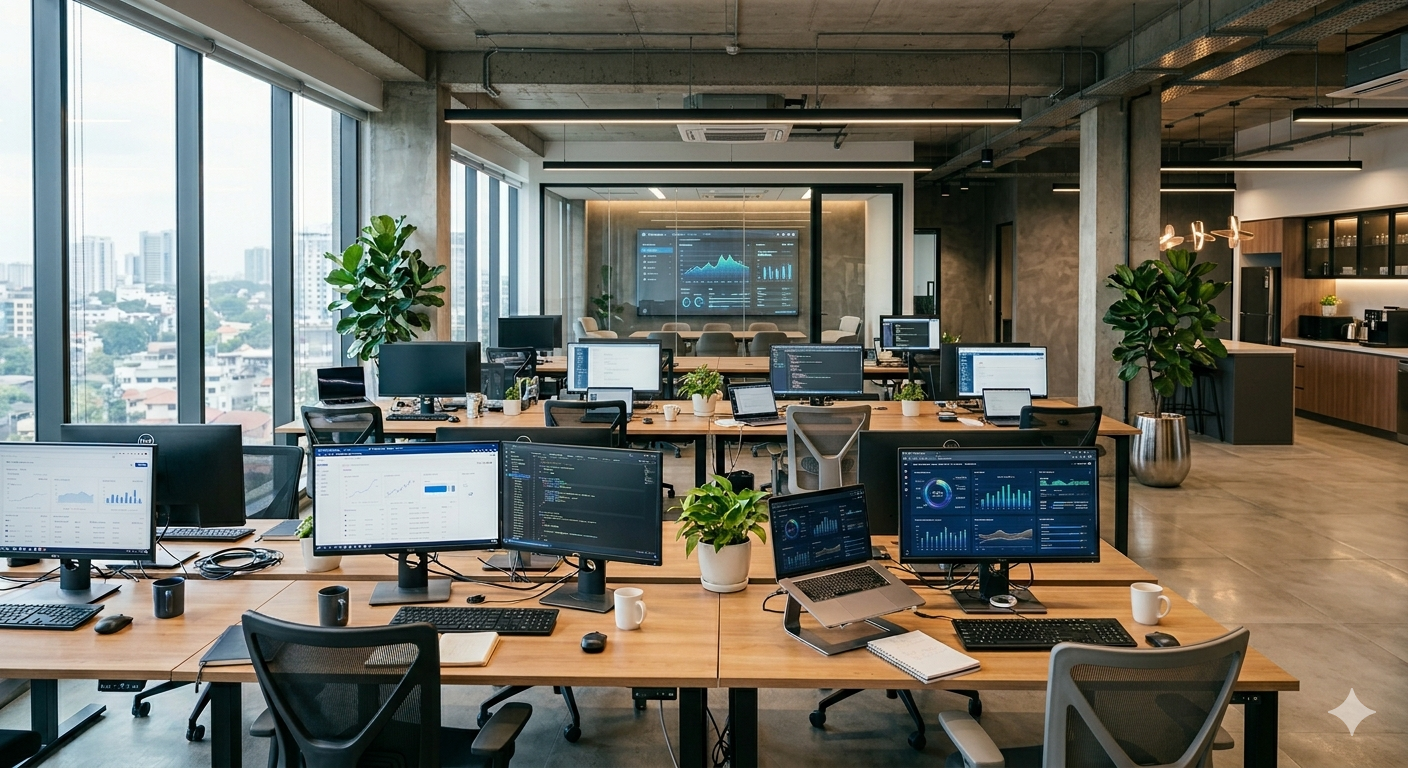
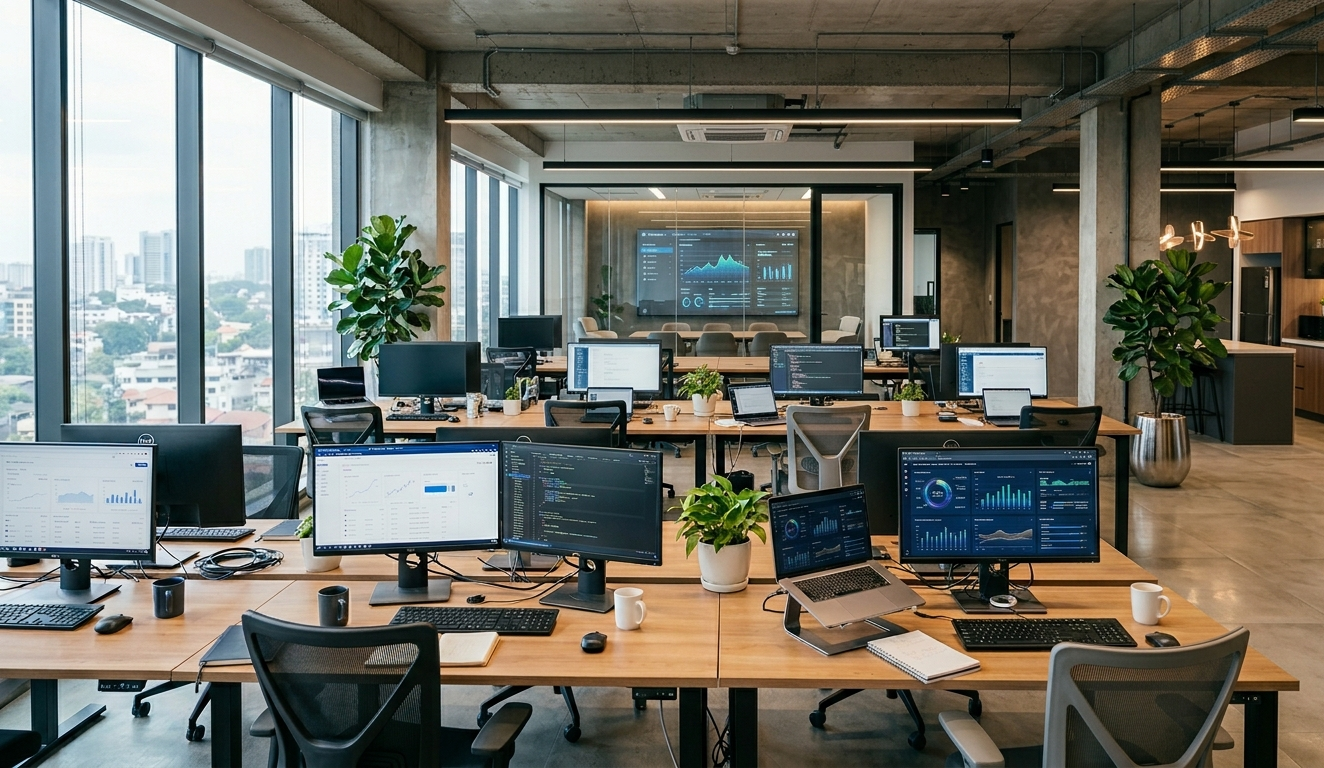
latest updates

diff --git a/src/components/PageCta.jsx b/src/components/PageCta.jsx
@@ -1,3 +1,4 @@
+import { Link } from 'react-router-dom'
 import { contact, ctaSection } from '../data/content'
 
 export default function PageCta() {
@@ -5,17 +6,17 @@ export default function PageCta() {
     <section className="relative py-16 lg:py-20 overflow-hidden cta-pattern">
       <div className="section-container relative z-10 text-center">
         <p className="text-brand font-bold text-lg sm:text-xl mb-3">{ctaSection.brand}</p>
-        <h2 className="text-2xl sm:text-3xl lg:text-4xl font-extrabold text-white leading-tight text-balance max-w-3xl mx-auto mb-8">
+        <h2 className="section-title text-white leading-tight text-balance max-w-3xl mx-auto mb-8">
           {ctaSection.title}
         </h2>
 
         <div className="flex flex-col sm:flex-row items-center justify-center gap-4">
-          <a
-            href="/contact"
+          <Link
+            to="/contact"
             className="w-full sm:w-auto min-w-[220px] inline-flex items-center justify-center rounded-md bg-white px-8 py-4 text-sm font-bold uppercase tracking-wide text-brand-deep shadow-lg hover:bg-brand-light transition-colors"
           >
             {ctaSection.proposalButton}
-          </a>
+          </Link>
           <a
             href={contact.phoneTel}
             className="w-full sm:w-auto min-w-[220px] inline-flex items-center justify-center rounded-md bg-white px-8 py-4 text-sm font-bold uppercase tracking-wide text-brand-deep shadow-lg hover:bg-brand-light transition-colors"

diff --git a/src/components/WhyWorkWithUs.jsx b/src/components/WhyWorkWithUs.jsx
@@ -1,3 +1,4 @@
+import { Link } from 'react-router-dom'
 import { whyWork } from '../data/content'
 import PrinciplesCircle from './PrinciplesCircle'
 import PrinciplesMobile from './PrinciplesMobile'
@@ -8,7 +9,7 @@ export default function WhyWorkWithUs() {
       <div className="section-container">
         <div className="grid lg:grid-cols-2 gap-10 lg:gap-16 items-center">
           <div className="min-w-0">
-            <h2 className="text-3xl sm:text-4xl lg:text-5xl font-extrabold text-brand-dark tracking-tight mb-3">
+            <h2 className="section-title text-brand-dark mb-3">
               {whyWork.title}
             </h2>
             <p className="text-xl sm:text-2xl lg:text-3xl font-bold text-slate-800 mb-6 lg:mb-8">
@@ -25,12 +26,12 @@ export default function WhyWorkWithUs() {
                 <p key={paragraph.slice(0, 40)}>{paragraph}</p>
               ))}
             </div>
-            <a
-              href="#contact"
+            <Link
+              to="/contact"
               className="inline-flex w-full sm:w-auto items-center justify-center rounded-md bg-brand px-8 py-3.5 text-base font-bold text-brand-black shadow-lg shadow-brand/25 hover:bg-brand-light transition-all hover:-translate-y-0.5"
             >
               {whyWork.cta}
-            </a>
+            </Link>
           </div>
 
           <div className="hidden lg:flex min-w-0 w-full justify-center">

diff --git a/src/components/Footer.jsx b/src/components/Footer.jsx
@@ -1,3 +1,4 @@
+import { Link } from 'react-router-dom'
 import { contact, footer } from '../data/content'
 
 function scrollToTop() {
@@ -19,12 +20,12 @@ export default function Footer() {
             <ul className="space-y-3">
               {footer.services.map((item) => (
                 <li key={item.label}>
-                  <a
-                    href={item.href}
+                  <Link
+                    to={item.href}
                     className="text-sm hover:text-brand-dark transition-colors"
                   >
                     {item.label}
-                  </a>
+                  </Link>
                 </li>
               ))}
             </ul>
@@ -54,13 +55,13 @@ export default function Footer() {
           <p>© {footer.copyright}</p>
           <div className="flex flex-wrap justify-center gap-x-6 gap-y-2">
             {footer.bottomLinks.map((link) => (
-              <a
+              <Link
                 key={link.label}
-                href={link.href}
+                to={link.href}
                 className="hover:text-brand-dark transition-colors"
               >
                 {link.label}
-              </a>
+              </Link>
             ))}
           </div>
         </div>

diff --git a/src/components/Services.jsx b/src/components/Services.jsx
@@ -1,3 +1,4 @@
+import { Link } from 'react-router-dom'
 import { services } from '../data/content'
 import { Icon } from './Icons'
 
@@ -23,18 +24,18 @@ export default function Services() {
                 </div>
               </div>
 
-              <div className="flex flex-1 flex-col p-6">
+              <div className="flex flex-1 flex-col p-4">
                 <p className="text-sm leading-relaxed text-slate-600 flex-1 text-justify">
                   {service.description}
                 </p>
 
-                <a
-                  href={service.href}
-                  className="mt-6 flex w-full items-center justify-center gap-2 rounded-xl bg-brand px-6 py-3 text-sm font-semibold text-brand-black hover:bg-brand-light transition-colors"
+                <Link
+                  to={service.href}
+                  className="mt-4 flex w-full items-center justify-center gap-2 rounded-xl bg-brand px-6 py-3 text-sm font-semibold text-brand-black hover:bg-brand-light transition-colors"
                 >
                   Learn more
                   <Icon name="arrow" className="w-4 h-4" />
-                </a>
+                </Link>
               </div>
             </article>
           ))}

diff --git a/src/pages/WhoWeAre.jsx b/src/pages/WhoWeAre.jsx
@@ -1,3 +1,4 @@
+import { Link } from 'react-router-dom'
 import { whoWeArePage, whyWork } from '../data/content'
 import { IconBadge } from '../components/Icons'
 import PageHero from '../components/PageHero'
@@ -37,12 +38,12 @@ export default function WhoWeAre() {
                   {paragraph}
                 </p>
               ))}
-              <a
-                href={intro.ctaHref}
+              <Link
+                to={intro.ctaHref}
                 className="inline-flex items-center justify-center rounded-md bg-brand px-8 py-3.5 text-sm font-bold uppercase tracking-wide text-brand-black shadow-lg shadow-brand/25 hover:bg-brand-light transition-all hover:-translate-y-0.5"
               >
                 {intro.cta}
-              </a>
+              </Link>
             </div>
           </div>
         </div>

diff --git a/src/components/Hero.jsx b/src/components/Hero.jsx
@@ -1,3 +1,4 @@
+import { Link } from 'react-router-dom'
 import { contact, hero } from '../data/content'
 import HeroAnimatedTitle from './HeroAnimatedTitle'
 
@@ -36,12 +37,12 @@ export default function Hero() {
             >
               {hero.ctaPrimary}
             </a>
-            <a
-              href="/contact"
+            <Link
+              to="/contact"
               className="font-sans inline-flex items-center justify-center rounded-full border-2 border-white/50 bg-white/10 px-8 py-4 text-base font-bold text-white backdrop-blur-sm hover:bg-white/20 transition-all hover:-translate-y-1"
             >
               {hero.ctaSecondary}
-            </a>
+            </Link>
           </div>
         </div>
       </div>

diff --git a/src/App.jsx b/src/App.jsx
@@ -1,4 +1,4 @@
-import { BrowserRouter, Routes, Route } from 'react-router-dom'
+import { BrowserRouter, Routes, Route, Navigate } from 'react-router-dom'
 import Header from './components/Header'
 import Footer from './components/Footer'
 import ScrollToHash from './components/ScrollToHash'
@@ -23,6 +23,7 @@ function App() {
             <Route path="/services/:slug" element={<ServicePage />} />
             <Route path="/frequently-asked-questions" element={<FAQ />} />
             <Route path="/contact" element={<ContactPage />} />
+            <Route path="*" element={<Navigate to="/" replace />} />
           </Routes>
         </main>
         <Footer />

diff --git a/index.html b/index.html
@@ -8,7 +8,7 @@
     <link rel="preconnect" href="https://fonts.googleapis.com" />
     <link rel="preconnect" href="https://fonts.gstatic.com" crossorigin />
     <link href="https://fonts.googleapis.com/css2?family=Inter:wght@400;500;600;700&family=Poppins:wght@500;600;700;800&family=Montserrat:wght@600;700;800&family=Roboto:wght@400;500;700&family=Sora:wght@400;500;600;700&display=swap" rel="stylesheet" />
-    <link rel="icon" type="image/png" href="/logo.png" />
+    <link rel="icon" type="image/svg+xml" href="/favicon.svg" />
     <title>Digital Marketing Agency | Space Frog Media | SEO | PPC | SEM</title>
   </head>
   <body>

diff --git a/src/components/Process.jsx b/src/components/Process.jsx
@@ -51,7 +51,7 @@ export default function Process() {
     <section id="process" className="relative py-20 lg:py-28 bg-slate-50 overflow-hidden">
       <div className="section-container relative">
         <div className="text-center mb-12 lg:mb-16">
-          <h2 className="text-3xl sm:text-4xl lg:text-5xl font-extrabold text-slate-800 uppercase tracking-wide">
+          <h2 className="section-title text-brand-dark">
             {process.title}
           </h2>
           <div className="mx-auto mt-4 h-1 w-48 rounded-full bg-linear-to-r from-brand via-brand-dark to-brand-deep" />

diff --git a/src/components/Contact.jsx b/src/components/Contact.jsx
@@ -17,7 +17,7 @@ export default function Contact() {
       <div className="section-container relative z-10">
         <div className="max-w-2xl mx-auto text-center mb-12">
           <p className="text-brand font-bold text-xl lg:text-2xl mb-4">{ctaSection.brand}</p>
-          <h2 className="text-3xl sm:text-4xl lg:text-5xl font-extrabold text-white leading-tight text-balance">
+          <h2 className="section-title text-white leading-tight text-balance">
             {ctaSection.title}
           </h2>
         </div>

diff --git a/src/components/About.jsx b/src/components/About.jsx
@@ -10,7 +10,7 @@ export default function About() {
       <div className="section-container relative">
         <div className="grid lg:grid-cols-2 gap-12 lg:gap-16 items-center">
           <div>
-            <h2 className="text-4xl lg:text-6xl font-extrabold text-brand-dark tracking-tight mb-6">
+            <h2 className="section-title text-brand-dark mb-6">
               {about.title}
             </h2>
             <h3 className="text-xl lg:text-2xl font-bold text-slate-900 leading-snug mb-8">

diff --git a/src/components/ScrollToHash.jsx b/src/components/ScrollToHash.jsx
@@ -8,8 +8,12 @@ export default function ScrollToHash() {
     if (hash) {
       const timer = setTimeout(() => {
         const element = document.querySelector(hash)
-        element?.scrollIntoView({ behavior: 'smooth' })
-      }, 100)
+        if (element) {
+          element.scrollIntoView({ behavior: 'smooth' })
+          return
+        }
+        window.scrollTo(0, 0)
+      }, 150)
       return () => clearTimeout(timer)
     }
 
